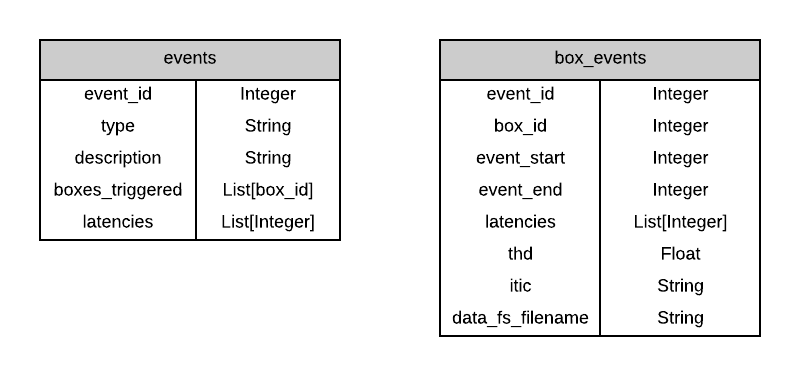
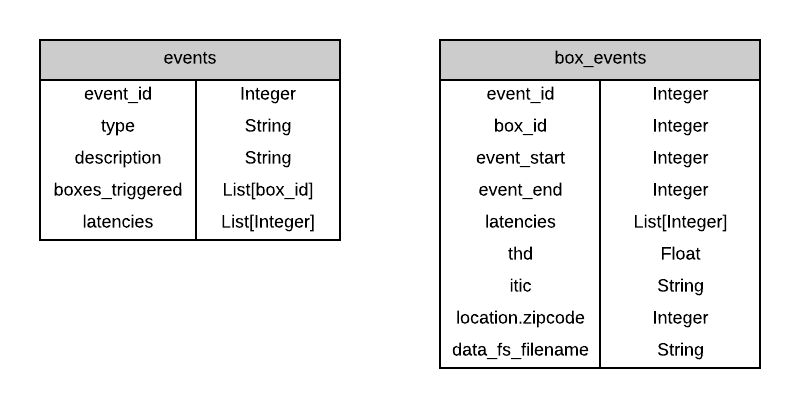
Update Gitbook datamodel section

Changed region(s): [[0.5312, 0.0878, 0.9688, 0.9069], [0.0312, 0.0878, 0.4375, 0.6436]]

diff --git a/gitbook/datamodel/description.md b/gitbook/datamodel/description.md
@@ -16,7 +16,7 @@ The OPQ system utilizes the following collections:
 * **[users](#users):** Provides user information
 
 ### Naming Conventions
-The OPQ system comprises of a multitude of different tools and libraries. 
+The OPQ system is comprised of a multitude of different tools, libraries, and frameworks. 
 In order to minimize confusion, we follow a basic set of naming conventions for our collections and documents that we feel will keep things as simple as possible:
 * All collection names and documents fields are in lower-case
 * Collection names should always be plural
@@ -31,7 +31,11 @@ As such, each measurement document can essentially be thought of as an OPQBox "h
 ![Measurements Collection](images/measurements-collection.png)
 
 Each measurement document always corresponds to a single OPQBox, as indicated by the **box_id** field.
+
 The **voltage** and **frequency** fields are RMS calculations of voltage and frequency at a given moment in time, indicated by the **timestamp_ms** field.
+
+The **location.zipcode** field stores the OPQBox zipcode location. Note how the **location** field is an object, with a **zipcode** sub-property.
+This **location** object (and its sub-properties) should always match the location object stored in the **opq_boxes** collection.
 
 ### Events and Box Events
 #### Events {#events}
@@ -62,16 +66,19 @@ The **box_events** collection provides the event meta-data for a given OPQBox.
 
 The **event_id** field corresponds to the event_id generated by the aforementioned **events** document.
 
-The **box_id** field indicates the box for which this document's data represents
+The **box_id** field indicates the OPQBox from which this data was produced.
 
 As an event can be associated with multiple OPQBoxes, it is therefore important to understand that there can be (and often are) multiple box_event documents with the same event_id.
 Together, the **event_id** and **box_id** fields are what one would query on in order to find data for a given OPQBox for a specific event.
 
-The **event_start** and **event_end** fields are unix timestamps indicating the start and event of the event.
+The **event_start** and **event_end** fields are unix timestamps indicating the start and end time of the event.
 
 The **latencies** array is (*Serge: Again, could you clarify on this? Was previously named timestamps*)
 
 The **thd** and **itic** fields correspond to the total harmonic distortion and ITIC values, as calculated by the OPQMauka [THD](../mauka/plugins.md#thd) and [ITIC](../mauka/plugins.md#itic) plugins.
+
+The **location.zipcode** field stores the OPQBox zipcode location. Note how the **location** field is an object, with a **zipcode** sub-property.
+This **location** object (and its sub-properties) should always match the location object stored in the **opq_boxes** collection.
 
 The **data_fs_filename** field indicates the GridFS filename that holds the box_event's actual raw waveform data.
 
@@ -92,6 +99,8 @@ Note: The GridFS specification requires the **metadata** field be used to store 
 
 #### FS.Chunks {#fs.chunks}
 This collection is internal to GridFS and is used for storing file chunks.
+The **files_id** field is a Mongo ObjectID reference to the chunk's corresponding **fs.files** document.
+It might be interesting to note that this is the only occurrence in the data model where a Mongo ObjectID is being referenced.
 
 ### OPQBoxes {#opq_boxes}
 The **opq_boxes** collection provides the information of each individual OPQBox in the system.
@@ -103,7 +112,10 @@ The **box_id** field is a unique integer specifying the identification value of 
 
 The **calibration_constant** field is the box specific value that is used to calculate the actual waveform data values. (*Serge: Is this correct?*)
 
-The **zipcode** field indicates the zipcode location where the OPQBox currently resides. (*Food for thought: What happens if the box location changes over time? How do we keep track of event data and its corresponding location?*)
+As there are a variety of ways to represent a location, the **location** field is an *object* with its sub-properties representing different types of location definitions.
+For now, we are only keeping track of zipcode, but this approach makes it trivial to add additional location types (such at lat and lng) in the future. 
+
+The **location.zipcode** field indicates the zipcode location where the OPQBox currently resides. 
 
 ### Users {#users}
 The **users** collection provides information on a given user of the OPQ system.
@@ -116,6 +128,6 @@ The **password** field is the user's password, encrypted with bcrypt.
 
 The **first_name** and **last_name** fields are the user's first and last name.
 
-The **boxes_owned** array indicates the **opq_boxes** owned by the user. (*Question to Philip: Again, should we store the opq_box Mongo _id or the box_id value here?*)
+The **boxes** array indicates the **opq_boxes** owned by the user. 
 
 The **role** field indicates the role of the user in the OPQ system. Currently, there are only two roles: "user" and "admin".
